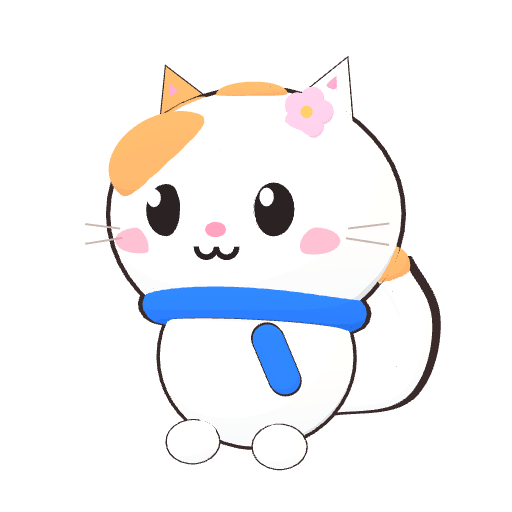
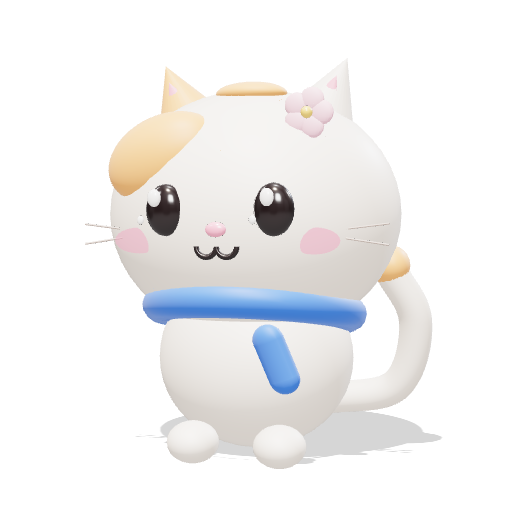
feat(tabi): soft vinyl Tabi that dances, squishes and rides down the home page
- Re-render Tabi as a soft-touch vinyl toy (same three.js model: no outline,
  studio light, glossy eyes, contact shadow); --toon keeps the old style
- Full-body dance loop (16 frames) standing in the home hero
- Spring squish: leans away from the cursor, squashes when pressed, wobbles
  back when let go; keyboard Space/Enter too
- Phones: one Tabi rides from the hero to the hello card while scrolling
  (portalled to body, taps pass through, off for reduced motion / data saver)
- Face loops now WebP (~60 KB each instead of ~450 KB PNG)

Changed region(s): [[0.1875, 0.0938, 0.875, 0.9375]]

diff --git a/components/tabi/tabi-app.tsx b/components/tabi/tabi-app.tsx
@@ -6,10 +6,11 @@
 import dynamic from "next/dynamic";
 import Link from "next/link";
 import { createContext, useCallback, useContext, useEffect, useMemo, useRef, useState } from "react";
+import { createPortal } from "react-dom";
 import { ArrowRight, ArrowUp, CalendarDays, ChevronLeft, CircleHelp, Heart, Home, Map as MapIcon, Pencil, Plane, Plus, Send, User } from "lucide-react";
 import type { HazardAlert } from "@/lib/tabi/alerts";
 import { nearestGateway } from "@/lib/tabi/cities";
-import { TABI_ART, type TabiMood } from "@/lib/tabi/mascot";
+import { TABI_ART, TABI_DANCE, type TabiMood } from "@/lib/tabi/mascot";
 import { encodeShare, shareRef, tripTitle } from "@/lib/tabi/share";
 import type { SharedTrip } from "@/lib/tabi/share-server";
 import { listTrips, newTrip, saveTrip, type SavedTrip } from "@/lib/tabi/store";
@@ -433,6 +434,164 @@ function SeasonFx() {
     </div>
   );
 }
+/* ── Squishy Tabi (soft-toy feel): leans away from the pointer, squashes when pressed,
+   springs back with a wobble when let go. One under-damped spring per axis. ── */
+type Pose = { x: number; y: number; r: number; sx: number; sy: number };
+const REST: Pose = { x: 0, y: 0, r: 0, sx: 1, sy: 1 };
+const PRESSED: Pose = { x: 0, y: 14, r: 0, sx: 1.24, sy: 0.72 };
+const SPRING = { k: 380, c: 13, m: 0.8 }; // damping ratio ≈ 0.37 → two or three visible bounces
+
+/** `touchOnly`: the phone traveler sits at the end of <body>, so it stays out of the Tab order (a finger toy there). */
+function DancingTabi({ squish = true, touchOnly = false }: { squish?: boolean; touchOnly?: boolean }) {
+  const body = useRef<HTMLSpanElement>(null);
+  const goal = useRef<Pose>(REST);
+  const held = useRef<number | null>(null);
+  const kick = useRef<() => void>(() => {});
+
+  useEffect(() => {
+    const el = body.current;
+    if (!el || window.matchMedia("(prefers-reduced-motion: reduce)").matches) return;
+    const keys = ["x", "y", "r", "sx", "sy"] as const;
+    const pos = { ...REST };
+    const vel = { x: 0, y: 0, r: 0, sx: 0, sy: 0 };
+    let raf = 0;
+    let last = 0;
+    const tick = (t: number) => {
+      const dt = last ? Math.min(0.032, (t - last) / 1000) : 0.016;
+      last = t;
+      let moving = false;
+      for (const k of keys) {
+        const f = -SPRING.k * (pos[k] - goal.current[k]) - SPRING.c * vel[k];
+        vel[k] += (f / SPRING.m) * dt;
+        pos[k] += vel[k] * dt;
+        if (Math.abs(vel[k]) > 0.002 || Math.abs(pos[k] - goal.current[k]) > 0.002) moving = true;
+      }
+      el.style.transform = `translate(${pos.x}px, ${pos.y}px) rotate(${pos.r}deg) scale(${pos.sx}, ${pos.sy})`;
+      raf = moving ? requestAnimationFrame(tick) : 0;
+      if (!moving) last = 0;
+    };
+    kick.current = () => { if (!raf) raf = requestAnimationFrame(tick); };
+    return () => cancelAnimationFrame(raf);
+  }, []);
+
+  const aim = (p: Pose) => { goal.current = p; kick.current(); };
+  const lean = (e: React.PointerEvent<HTMLButtonElement>) => {
+    if (held.current !== null || e.pointerType === "touch") return;
+    const b = e.currentTarget.getBoundingClientRect();
+    const nx = Math.max(-1, Math.min(1, ((e.clientX - b.left) / b.width) * 2 - 1));
+    const ny = Math.max(-1, Math.min(1, ((e.clientY - b.top) / b.height) * 2 - 1));
+    aim({ x: -14 * nx, y: -8 * ny, r: -7 * nx, sx: 1.03, sy: 0.97 }); // shies away from the cursor
+  };
+  const let_go = () => { held.current = null; aim(REST); };
+
+  return (
+    <span className="tabi-dancer">
+      <span ref={body} className="tabi-dancer-body">
+        <span className="tabi-sprite" aria-hidden>
+          {/* eslint-disable-next-line @next/next/no-img-element */}
+          <img src={TABI_DANCE.sprite} alt="" />
+        </span>
+      </span>
+      {squish && (
+        <button
+          type="button"
+          className="tabi-dancer-target"
+          aria-label="บีบทาบิแล้วปล่อยให้เด้ง"
+          tabIndex={touchOnly ? -1 : undefined}
+          onPointerEnter={lean}
+          onPointerMove={lean}
+          onPointerLeave={() => { if (held.current === null) aim(REST); }}
+          onPointerDown={(e) => {
+            if (!e.isPrimary || e.button !== 0 || held.current !== null) return;
+            held.current = e.pointerId;
+            e.currentTarget.setPointerCapture(e.pointerId);
+            aim(PRESSED);
+          }}
+          onPointerUp={(e) => { if (held.current === e.pointerId) let_go(); }}
+          onPointerCancel={let_go}
+          onKeyDown={(e) => { if ((e.key === " " || e.key === "Enter") && !e.repeat) aim(PRESSED); }}
+          onKeyUp={(e) => { if (e.key === " " || e.key === "Enter") aim(REST); }}
+        />
+      )}
+    </span>
+  );
+}
+
+/**
+ * Phones: one Tabi rides down the home page as you scroll — it leaves the hero and settles on the
+ * next `[data-tabi-dock]` as that spot comes up, hopping in an arc on the way. Docks keep their own
+ * still art, so desktop, reduced motion and data saver simply show Tabi in place.
+ */
+function TabiTraveler() {
+  const [on, setOn] = useState(false);
+  const box = useRef<HTMLDivElement>(null);
+  const [atHero, setAtHero] = useState(true);
+
+  useEffect(() => {
+    const phone = window.matchMedia("(max-width: 1023px)");
+    const calm = window.matchMedia("(prefers-reduced-motion: reduce)");
+    const saver = (navigator as Navigator & { connection?: { saveData?: boolean } }).connection?.saveData;
+    const sync = () => setOn(phone.matches && !calm.matches && !saver && document.querySelectorAll("[data-tabi-dock]").length > 1);
+    sync();
+    phone.addEventListener("change", sync);
+    calm.addEventListener("change", sync);
+    return () => { phone.removeEventListener("change", sync); calm.removeEventListener("change", sync); };
+  }, []);
+
+  useEffect(() => {
+    if (!on) return;
+    const root = document.documentElement;
+    root.dataset.tabiTraveler = "on";
+    let raf = 0;
+    let hero = true;
+    const ease = (p: number) => (p < 0.5 ? 4 * p * p * p : 1 - (-2 * p + 2) ** 3 / 2);
+    const frame = () => {
+      const el = box.current;
+      const docks = [...document.querySelectorAll<HTMLElement>("[data-tabi-dock]")].map((d) => d.getBoundingClientRect());
+      if (el && docks.length) {
+        const h = window.innerHeight;
+        // the last dock whose middle has come up into the screen is where Tabi is heading
+        let j = 0;
+        docks.forEach((d, i) => { if (d.top + d.height / 2 < h) j = i; });
+        const to = docks[j];
+        const from = docks[Math.max(0, j - 1)];
+        const p = j === 0 ? 1 : ease(Math.max(0, Math.min(1, (h - (to.top + to.height / 2)) / (0.3 * h))));
+        const lerp = (a: number, b: number) => a + (b - a) * p;
+        const size = lerp(from.height, to.height);
+        const x = lerp(from.left + from.width / 2, to.left + to.width / 2) - size / 2;
+        const y = lerp(from.top + from.height / 2, to.top + to.height / 2) - size / 2 - Math.sin(Math.PI * p) * h * 0.08;
+        el.style.transform = `translate3d(${x}px, ${y}px, 0)`;
+        el.style.width = el.style.height = `${size}px`;
+        const nowHero = j === 0 || p === 0;
+        if (nowHero !== hero) { hero = nowHero; setAtHero(nowHero); }
+      }
+      raf = requestAnimationFrame(frame);
+    };
+    const visibility = () => {
+      cancelAnimationFrame(raf);
+      raf = document.hidden ? 0 : requestAnimationFrame(frame);
+    };
+    raf = requestAnimationFrame(frame);
+    document.addEventListener("visibilitychange", visibility);
+    return () => {
+      cancelAnimationFrame(raf);
+      document.removeEventListener("visibilitychange", visibility);
+      delete root.dataset.tabiTraveler;
+    };
+  }, [on]);
+
+  if (!on) return null;
+  // portalled to <body>: an animated ancestor (transform) would otherwise trap `position: fixed`
+  return createPortal(
+    <div className="tabi-traveler" aria-hidden={!atHero}>
+      <div ref={box} className="tabi-traveler-box">
+        <DancingTabi squish={atHero} touchOnly />
+      </div>
+    </div>,
+    document.body,
+  );
+}
+
 /** Plays the 12-frame three.js loop (breathe, sway, tail wag, blink) unless `animated={false}`. */
 function Avatar({ mood = "idle", size = 44, wag = false, animated = true }: { mood?: TabiMood; size?: number; wag?: boolean; animated?: boolean }) {
   const art = TABI_ART[mood];
@@ -577,8 +736,10 @@ function HomeScreen({ onAsk }: { onAsk: (m: string) => void }) {
           <h1 className="text-[34px] font-bold leading-[1.15] tracking-tight lg:text-[52px]">เริ่มวางแผน<br />ทริปญี่ปุ่น 🌸</h1>
           <p className="mt-2 max-w-[260px] font-medium text-[var(--t-navy)] lg:max-w-[380px] lg:text-lg">บอกทาบิว่าอยากไปช่วงไหน กี่วัน และชอบเที่ยวแนวไหน</p>
         </div>
-        <p className="absolute bottom-2 right-3 rounded-full bg-black/40 px-2 text-[10px] text-white">ภาพ: Wikipedia</p>
+        <p className="absolute bottom-2 left-3 rounded-full bg-black/40 px-2 text-[10px] text-white">ภาพ: Wikipedia</p>
+        <div data-tabi-dock="hero" className="tabi-hero-cat"><DancingTabi /></div>
       </section>
+      <TabiTraveler />
       <div className="space-y-6">
       <div className="tabi-ask-row flex items-center gap-3">
         <Avatar size={52} />
@@ -609,7 +770,7 @@ function HomeScreen({ onAsk }: { onAsk: (m: string) => void }) {
         <p className="tabi-muted mt-1 text-[11px]">ภาพ: Wikipedia</p>
       </section>
       <section className="tabi-card flex gap-3 bg-[var(--t-sakura)] p-4">
-        <Avatar size={56} mood="happy" animated />
+        <span data-tabi-dock="hello" className="tabi-dock-hello"><Avatar size={56} mood="happy" animated /></span>
         <div>
           <p className="font-bold text-[var(--t-pink-ink)]">สวัสดี! ทาบิเองนะ</p>
           <p className="text-sm">ทาบิจะเสนอเส้นทางไม่เกิน 3 แบบ เลือกแล้วจัดเป็นแผนรายวันให้ ปรับได้ด้วยการพิมพ์บอก</p>

diff --git a/scripts/tabi-mascot/scene.html b/scripts/tabi-mascot/scene.html
@@ -16,6 +16,8 @@ const mood = params.get("mood") ?? "idle";
 // frame=face → head close-up for round avatars; default = full body
 const face = params.get("frame") === "face";
 const SIZE = Number(params.get("size") ?? 512);
+// ?dance → the hop-and-sway loop used for the full-body Tabi on the home screen
+const dance = params.has("dance");
 
 const renderer = new THREE.WebGLRenderer({ antialias: true, alpha: true, preserveDrawingBuffer: true });
 renderer.setPixelRatio(1);
@@ -29,15 +31,30 @@ const camera = new THREE.PerspectiveCamera(28, 1, 0.1, 100);
 camera.position.set(0, face ? 1.4 : 1.05, face ? 6.0 : 8.2);
 camera.lookAt(0, face ? 1.32 : 0.85, 0);
 
+// ?style=vinyl → soft-touch vinyl toy (no outline, studio light, glossy eyes); default = anime toon
+const vinyl = params.get("style") === "vinyl";
+if (vinyl) {
+  renderer.toneMapping = THREE.ACESFilmicToneMapping;
+  renderer.toneMappingExposure = 1.18;
+  renderer.shadowMap.enabled = true;
+  renderer.shadowMap.type = THREE.PCFSoftShadowMap;
+}
+
 // 3-step toon ramp → soft anime shading
 const ramp = new THREE.DataTexture(new Uint8Array([150, 150, 150, 255, 215, 215, 215, 255, 255, 255, 255, 255]), 3, 1);
 ramp.minFilter = ramp.magFilter = THREE.NearestFilter;
 ramp.needsUpdate = true;
-const toon = (color) => new THREE.MeshToonMaterial({ color, gradientMap: ramp });
-const flat = (color, opacity = 1) => new THREE.MeshBasicMaterial({ color, transparent: opacity < 1, opacity });
+const toon = vinyl
+  ? (color) => new THREE.MeshPhysicalMaterial({ color, roughness: 0.48, clearcoat: 0.35, clearcoatRoughness: 0.4, sheen: 0.4, sheenColor: 0xffffff, sheenRoughness: 0.6 })
+  : (color) => new THREE.MeshToonMaterial({ color, gradientMap: ramp });
+const flat = vinyl
+  ? (color, opacity = 1) => opacity < 1
+    ? new THREE.MeshBasicMaterial({ color, transparent: true, opacity })
+    : new THREE.MeshPhysicalMaterial({ color, roughness: 0.15, clearcoat: 1, clearcoatRoughness: 0.08 })
+  : (color, opacity = 1) => new THREE.MeshBasicMaterial({ color, transparent: opacity < 1, opacity });
 const INK = new THREE.MeshBasicMaterial({ color: 0x3a2a2a, side: THREE.BackSide });
 
-const C = { fur: 0xfffaf2, ginger: 0xffb066, pink: 0xffa3c0, blush: 0xff8fb1, blue: 0x2d7ff9, ink: 0x2b2224, white: 0xffffff, sakura: 0xffc6db, gold: 0xffd166 };
+const C = { fur: vinyl ? 0xfff5ea : 0xfffaf2, ginger: 0xffb066, pink: 0xffa3c0, blush: 0xff8fb1, blue: 0x2d7ff9, ink: 0x2b2224, white: 0xffffff, sakura: 0xffc6db, gold: 0xffd166 };
 
 const cat = new THREE.Group();
 scene.add(cat);
@@ -45,6 +62,7 @@ scene.add(cat);
 function mesh(geo, mat, pos = [0, 0, 0], scale = [1, 1, 1], rot = [0, 0, 0], outline = 0) {
   const m = new THREE.Mesh(geo, mat);
   m.position.set(...pos); m.scale.set(...scale); m.rotation.set(...rot);
+  if (vinyl) { m.castShadow = true; outline = 0; } // only the floor receives: no self-shadow streaks on the face
   if (outline) {
     const o = new THREE.Mesh(geo, INK);
     o.scale.setScalar(1 + outline);
@@ -160,13 +178,50 @@ function pose(t) {
   for (const e of eyes) e.scale.y = 1.25 * blink;
   if (mood === "happy") rightPaw.position.y = base.pawY + 0.08 * Math.sin(w * 4);
   if (mood === "worried") head.rotation.z = base.headZ + 0.12 * Math.sin(w); // slow "hmm…" head tilt
+  if (dance) {
+    // two little hops per loop: squash on landing, stretch in the air, sway side to side
+    const air = Math.abs(Math.sin(w * 2));
+    const land = (1 - air) ** 4;
+    cat.position.y = 0.18 * air;
+    cat.scale.set(1 + 0.07 * land - 0.02 * air, 1 - 0.09 * land + 0.03 * air, 1 + 0.07 * land);
+    cat.rotation.z = 0.09 * Math.sin(w);
+    cat.rotation.y = -0.28 + 0.12 * Math.sin(w);
+    head.rotation.z = base.headZ - 0.1 * Math.sin(w);
+    rightPaw.position.y = base.pawY + 0.1 * Math.sin(w * 4);
+  }
 }
 
 // lights
-scene.add(new THREE.HemisphereLight(0xffffff, 0xd6e6ff, 1.6));
-const key = new THREE.DirectionalLight(0xffffff, 2.2);
-key.position.set(-3, 5, 6);
-scene.add(key);
+if (vinyl) {
+  // studio: soft reflections from a room environment, warm key with soft shadows, cool rim
+  const { RoomEnvironment } = await import("https://cdn.jsdelivr.net/npm/three@0.170.0/examples/jsm/environments/RoomEnvironment.js");
+  const pmrem = new THREE.PMREMGenerator(renderer);
+  scene.environment = pmrem.fromScene(new RoomEnvironment(), 0.04).texture;
+  scene.environmentIntensity = 0.55;
+  scene.add(new THREE.HemisphereLight(0xfff6ee, 0xe8d8cc, 0.9));
+  const key = new THREE.DirectionalLight(0xfff1e2, 2.4);
+  key.position.set(-1.2, 7, 3.5);
+  key.castShadow = true;
+  key.shadow.mapSize.set(1024, 1024);
+  key.shadow.radius = 6;
+  key.shadow.bias = -0.0008;
+  Object.assign(key.shadow.camera, { left: -3, right: 3, top: 3, bottom: -3 });
+  scene.add(key);
+  const rim = new THREE.DirectionalLight(0xdfeaff, 1.2);
+  rim.position.set(4, 3, -4);
+  scene.add(rim);
+  // soft contact shadow on an invisible floor
+  const floor = new THREE.Mesh(new THREE.PlaneGeometry(8, 8), new THREE.ShadowMaterial({ opacity: 0.16 }));
+  floor.rotation.x = -Math.PI / 2;
+  floor.position.y = -0.7;
+  floor.receiveShadow = true;
+  scene.add(floor);
+} else {
+  scene.add(new THREE.HemisphereLight(0xffffff, 0xd6e6ff, 1.6));
+  const key = new THREE.DirectionalLight(0xffffff, 2.2);
+  key.position.set(-3, 5, 6);
+  scene.add(key);
+}
 
 // ?sprite=N → render N frames side by side into one strip (CSS steps() plays it back)
 const frames = Number(params.get("sprite") ?? 0);

diff --git a/components/tabi/tabi.css b/components/tabi/tabi.css
@@ -187,6 +187,26 @@
   .tabi .tabi-sprite img { animation: none !important; transform: none; }
 }
 
+/* Home hero Tabi (full body, dancing): hold to squash, let go and it boings back. */
+.tabi-hero-cat { position: absolute; right: 4px; bottom: -6px; width: 150px; height: 150px; z-index: 2; }
+@media (min-width: 1024px) { .tabi-hero-cat { right: 24px; bottom: -4px; width: 250px; height: 250px; } }
+
+/* the dancing body + an invisible press target over the cat (not the empty corners) */
+.tabi-dancer { position: absolute; inset: 0; display: block; }
+.tabi-dancer-body { position: absolute; inset: 0; transform-origin: 50% 82%; will-change: transform; }
+.tabi-dancer .tabi-sprite img { width: 1600%; animation: tabi-sprite 1.6s steps(16) infinite; }
+.tabi-dancer-target { position: absolute; inset: 14% 18% 8%; border-radius: 45%; background: none; border: 0; padding: 0; cursor: grab; touch-action: pan-y; -webkit-tap-highlight-color: transparent; }
+.tabi-dancer-target:active { cursor: grabbing; }
+.tabi-dancer-target:focus-visible { outline: 3px solid var(--t-blue, #1a66d9); outline-offset: 4px; }
+@media (prefers-reduced-motion: reduce) { .tabi-dancer-body { transform: none !important; } }
+
+/* phone: one Tabi rides between docks while scrolling; the docks' own art steps aside */
+.tabi-dock-hello { display: grid; place-items: center; width: 72px; height: 72px; margin: -8px -4px -8px -8px; flex-shrink: 0; }
+.tabi-traveler { position: fixed; inset: 0; z-index: 30; pointer-events: none; overflow: hidden; }
+.tabi-traveler-box { position: absolute; left: 0; top: 0; will-change: transform; }
+.tabi-traveler .tabi-dancer-target { pointer-events: auto; }
+html[data-tabi-traveler="on"] [data-tabi-dock] > * { visibility: hidden; }
+
 /* ── playful hover / press (video feel: soft jelly bounce). Hover only where a real pointer exists;
    phones get the press squish. Lifts use `translate`/`scale` so they stack on top of .tabi-rise. ── */
 @keyframes tabi-jelly {

diff --git a/lib/tabi/mascot.ts b/lib/tabi/mascot.ts
@@ -3,9 +3,12 @@
 // `src` = full body, `face` = head close-up for round avatars,
 // `sprite` = 12-frame face loop (breathe, sway, tail wag, blink) for CSS steps(12).
 export const TABI_ART = {
-  idle: { src: "/tabi/tabi-idle.png", face: "/tabi/tabi-idle-face.png", sprite: "/tabi/tabi-idle-sprite.png", alt: "ทาบิ" },
-  happy: { src: "/tabi/tabi-happy.png", face: "/tabi/tabi-happy-face.png", sprite: "/tabi/tabi-happy-sprite.png", alt: "ทาบิดีใจ" },
-  worried: { src: "/tabi/tabi-worried.png", face: "/tabi/tabi-worried-face.png", sprite: "/tabi/tabi-worried-sprite.png", alt: "ทาบิไม่แน่ใจ" },
+  idle: { src: "/tabi/tabi-idle.png", face: "/tabi/tabi-idle-face.png", sprite: "/tabi/tabi-idle-sprite.webp", alt: "ทาบิ" },
+  happy: { src: "/tabi/tabi-happy.png", face: "/tabi/tabi-happy-face.png", sprite: "/tabi/tabi-happy-sprite.webp", alt: "ทาบิดีใจ" },
+  worried: { src: "/tabi/tabi-worried.png", face: "/tabi/tabi-worried-face.png", sprite: "/tabi/tabi-worried-sprite.webp", alt: "ทาบิไม่แน่ใจ" },
 } as const;
 
 export type TabiMood = keyof typeof TABI_ART;
+
+/** Full-body hop-and-sway loop for the home hero: 16 frames, played with CSS steps(16). */
+export const TABI_DANCE = { sprite: "/tabi/tabi-dance-sprite.webp", frames: 16 } as const;
